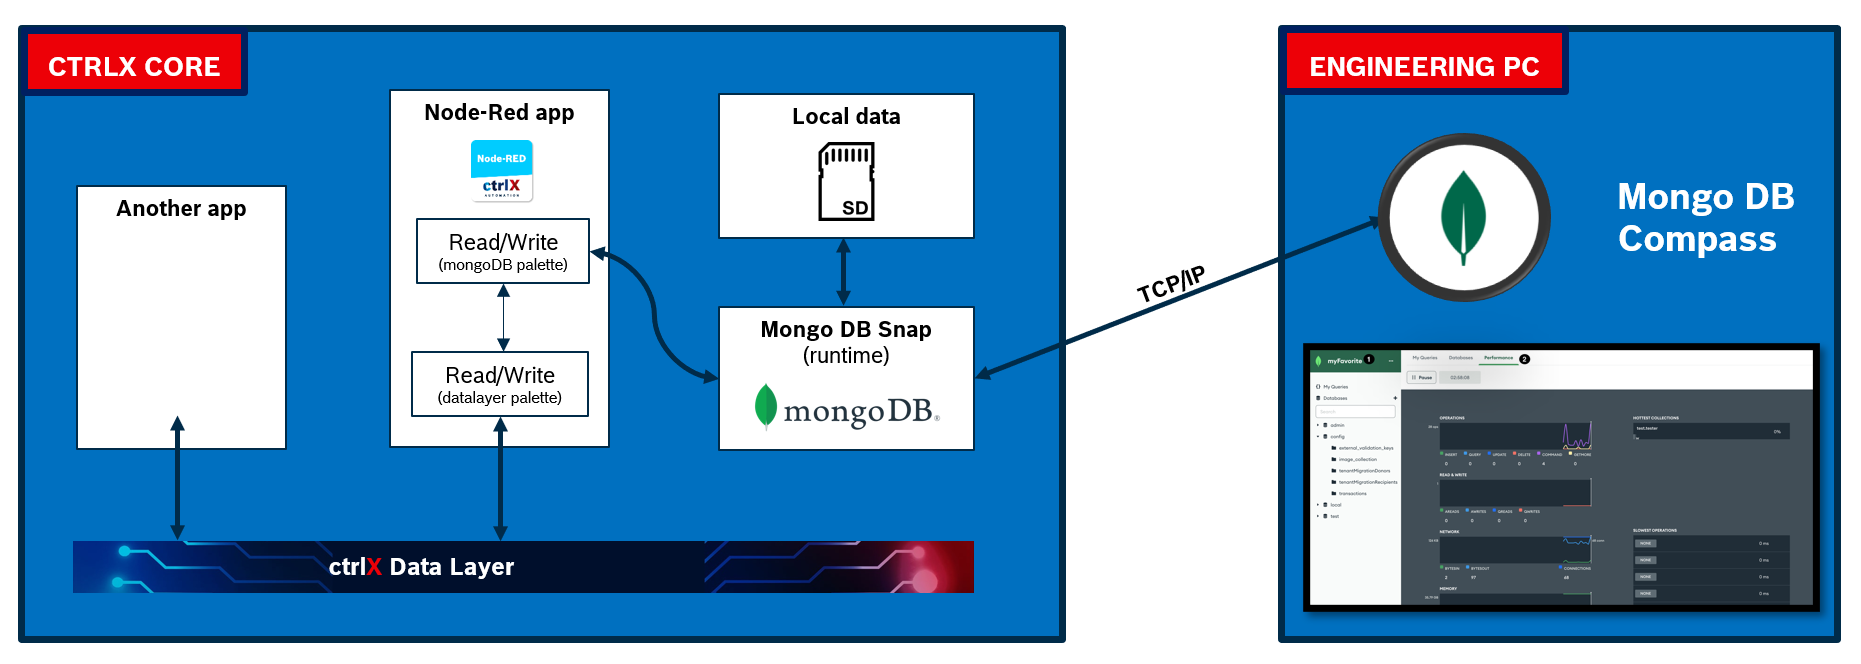
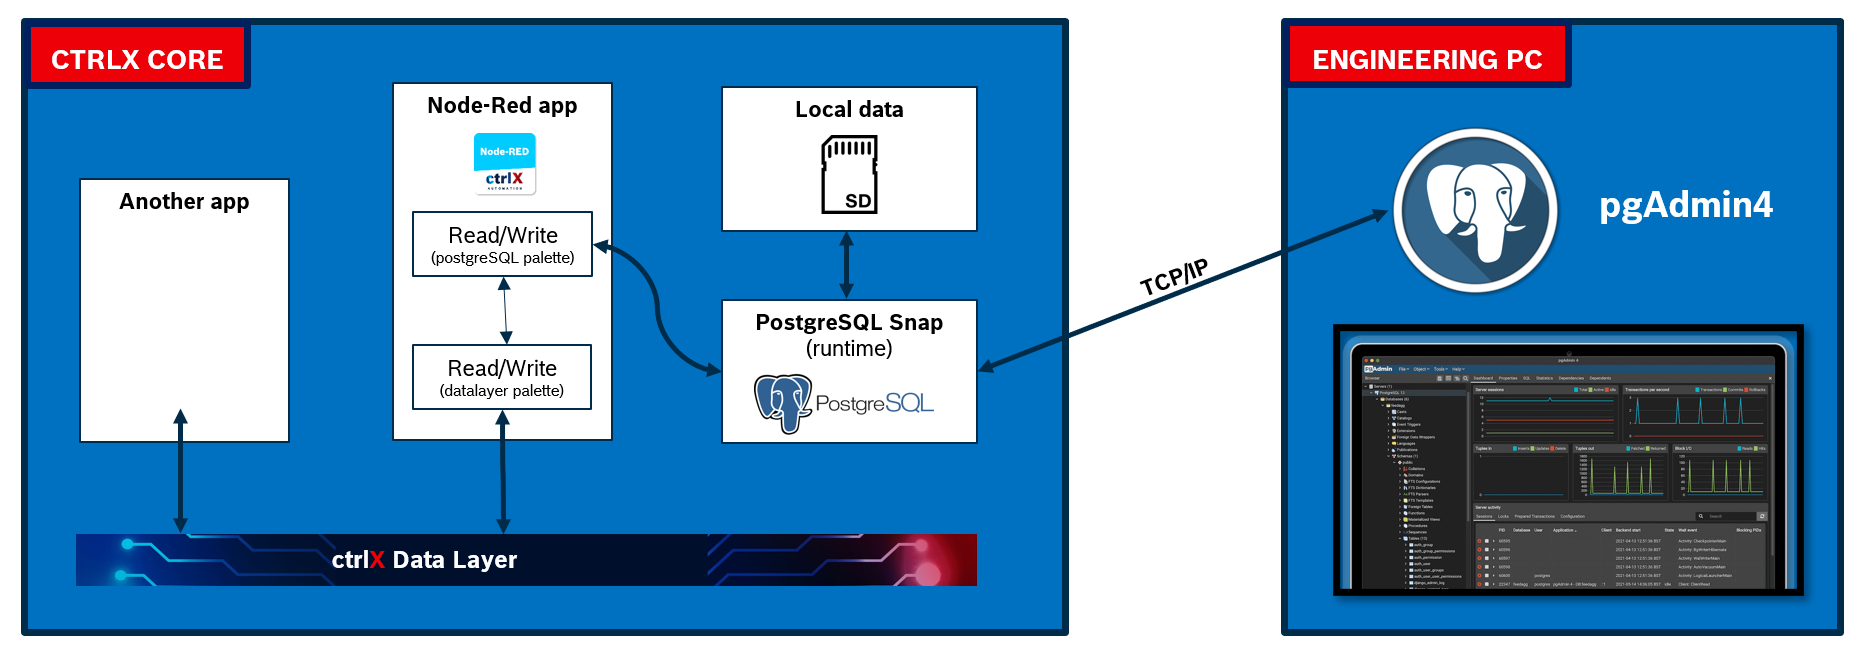
readme update

diff --git a/README.md b/README.md
@@ -1,14 +1,8 @@
   [![License: MIT](https://img.shields.io/badge/License-MIT-yellow.svg)](https://opensource.org/licenses/MIT)
 
+# ctrlx-postgresql
 
-sudo -u raul /usr/lib/postgresql/14/bin/postgres --config-file=/home/raul/ctrlx_postgresql/shscripts/data/configuration/postgresql.conf -D /home/raul/data_postgresql
-
-
-# ctrlx-mongodb
-
-This respository contains the source code and build instructions to generate the ctrlx-mongodb snap yourself. Shortly speaking, the ctrlx-mongodb packs mongo DB 7.0 for ubuntu 2022 with amd64 architecture. It targets ctrlX CORE virtual, ctrlX CORE X5 and ctrlX CORE x7 running ctrlX OS 2.xx (base apps running an ubuntu core 22). This application is (and will be) only supported for amd64 architecture. See the end of this README for further explainations about this issue.
-
-This repository is based in the [official mongodb36-configurable-snap repository](https://github.com/mauringo/mongodb36-configurable-snap) and it has been initially modified following the indications from Mauro Riboni in [SDK - Empower your app with Data Persistence](https://developer.community.boschrexroth.com/t5/Store-and-How-to/SDK-Empower-your-app-with-Data-Persistence/ba-p/69121). It has been then further adapted by Raul Cruz-Oliver to target ubuntu 22, including all the neccesary dependencies. 
+This respository contains the source code and build instructions to generate the ctrlx-postgresql snap yourself. Shortly speaking, the ctrlx-postgresql packs PostgreSQL 14.0 for Ubuntu 22.04 LTS with amd64 architecture. It targets ctrlX CORE virtual, ctrlX CORE X5 and ctrlX CORE x7 running ctrlX OS 2.xx (base apps running an ubuntu core 22). This application is only supported for amd64 architecture. 
 
 ## Author details
 <mark>**DISCLAIMER: This is not an official Bosch Rexroth development. This is only a demo example, use at your own risk. There is no support.**</mark> 
@@ -19,11 +13,11 @@ Date: November 2023 \
 License: MIT
 
 ## System overview
-The following diagram shows how mongo DB will integrated in ctrlX OS. The mongo DB runtime is packed in a snap and installed in the CORE, the user can configure where the data will be stored, for example in a external media like the an SD Card. Moreover, via a TCP/IP communication the mongo DB daemon in the ctrlX OS can connect to mongo DB Compass (GUI Deskop client application) in a engineering PC to easily visualize and export the data base.
+The following diagram shows how PostgreSQL will be integrated in ctrlX OS. The PostgreSQL runtime is packed in a snap and installed in the CORE, the user can configure where the data will be stored, for example in a external media like the an SD Card. Moreover, via a TCP/IP communication the PostgreSQL running in the ctrlX OS can accept connections from PgAdmin4 (GUI Deskop client application) in a engineering PC to easily visualize and export the data base.
 
 ![Alt Text](images/overview.png)
 
-Please visit [Mongo DB in ctrlX CORE OS](https://developer.community.boschrexroth.com/t5/forums/editpage/board-id/dcdev_community-dev-blog/message-id/969), where the functionalities of this app are explained in detail. Likewise, the already created snap can be downloaded there. 
+Please visit [PostgreSQL in ctrlX CORE OS](https://developer.community.boschrexroth.com/t5/forums/editpage/board-id/dcdev_community-dev-blog/message-id/969), where the functionalities of this app are explained in detail. 
 
 
 ## Easy start-up
@@ -36,73 +30,47 @@ Open a terminal, it will be started in your home directory. This is the best pla
 ```bash
 sudo apt install git # if you do not have git install in your system
 
-git clone https://github.com/rcruzoliver/ctrlx_mongodb
+git clone https://github.com/rcruzoliver/ctrlx_postgresql
 ```
 
 ### 1. Prepare your system
-You will pack mongo DB in a snap using a strategy in which some local installed packages are staged during snapcraft process, so, you need to install Mongo DB in your system. You can either follow the [official guide](https://www.mongodb.com/docs/manual/tutorial/install-mongodb-on-ubuntu/#std-label-install-mdb-community-ubuntu) to install Mongo DB Community Edition on Ubuntu, or simply follow the summarized tutorial I include next.
+You will pack PostgreSQL in a snap using a strategy in which some local installed packages are staged during snapcraft process, so, you need to install PostgreSQL in your system. You can either follow the [official guide](https://www.postgresql.org/download/linux/ubuntu/) to install PostgreSQL on Ubuntu, or simply follow the summarized tutorial I include next.
 
-- Install gnupg and curl
+- Create the file repository configuration:
 ```bash
-sudo apt-get install gnupg curl
+sudo sh -c 'echo "deb https://apt.postgresql.org/pub/repos/apt $(lsb_release -cs)-pgdg main" > /etc/apt/sources.list.d/pgdg.list'
 ```
-- Include the MongoDB public GPG key (grant access for download)
+- Import the repository signing key:
 ```bash
-curl -fsSL https://pgp.mongodb.com/server-7.0.asc | \
-   sudo gpg -o /usr/share/keyrings/mongodb-server-7.0.gpg \
-   --dearmor
+wget --quiet -O - https://www.postgresql.org/media/keys/ACCC4CF8.asc | sudo apt-key add -
 ```
-- Create a source list file for Mongo DB to specify the repositories from which the packages will be downloded
-```bash
-echo "deb [ arch=amd64,arm64 signed-by=/usr/share/keyrings/mongodb-server-7.0.gpg ] https://repo.mongodb.org/apt/ubuntu jammy/mongodb-org/7.0 multiverse" | sudo tee /etc/apt/sources.list.d/mongodb-org-7.0.list
-```
-- Update the package database (link the source for mongoDB you included before)
+- Update the package lists:
 ```bash
 sudo apt-get update
 ```
-- Install latest version of MongoDB. You could also choose an old version. By the time this was written, the latest was 7.0 (see bash output following), please consider forcing this version if the application is not working with a newer version of Mongo DB
+-  Install the desired version of PostgreSQL. (This example was developped for version 14.10)
 ```bash
-sudo apt-get install -y mongodb-org
+sudo apt-get -y install postgresql-14
 ```
-Verify you get this output in your console:
+- After the installation, open a new console and test if the right version was installed:
 ```bash
-Get:1 https://repo.mongodb.org/apt/ubuntu jammy/mongodb-org/7.0/multiverse amd64 mongodb-database-tools amd64 100.9.4 [51.9 MB] 
-Get:2 https://repo.mongodb.org/apt/ubuntu jammy/mongodb-org/7.0/multiverse amd64 mongodb-mongosh amd64 2.1.1 [47.9 MB] 
-Get:3 https://repo.mongodb.org/apt/ubuntu jammy/mongodb-org/7.0/multiverse amd64 mongodb-org-shell amd64 7.0.4 [2,986 B] 
-Get:4 https://repo.mongodb.org/apt/ubuntu jammy/mongodb-org/7.0/multiverse amd64 mongodb-org-server amd64 7.0.4 [36.5 MB] 
-Get:5 https://repo.mongodb.org/apt/ubuntu jammy/mongodb-org/7.0/multiverse amd64 mongodb-org-mongos amd64 7.0.4 [25.4 MB] 
-Get:6 https://repo.mongodb.org/apt/ubuntu jammy/mongodb-org/7.0/multiverse amd64 mongodb-org-database-tools-extra amd64 7.0.4 [7,756 B] 
-Get:7 https://repo.mongodb.org/apt/ubuntu jammy/mongodb-org/7.0/multiverse amd64 mongodb-org-database amd64 7.0.4 [3,426 B] 
-Get:8 https://repo.mongodb.org/apt/ubuntu jammy/mongodb-org/7.0/multiverse amd64 mongodb-org-tools amd64 7.0.4 [2,768 B] 
-Get:9 https://repo.mongodb.org/apt/ubuntu jammy/mongodb-org/7.0/multiverse amd64 mongodb-org amd64 7.0.4 [2,802 B] 
+/usr/lib/postgresql/14/bin/postgres -V
+```
+You should get
+```bash
+postgres (PostgreSQL) 14.10 (Ubuntu 14.10-0ubuntu0.22.04.1)
 ```
 
-If everything was succesful, mongo DB should be already installed. You can check if it works with:
-
-- Start the Mongo DB daemon (mongod) with
-```bash
-sudo systemctl daemon-reload
-sudo systemctl start mongod
-```
-- Verify it is awake
-```bash
-sudo systemctl status mongod
-```
-- You can stop the daemon with
-```bash
-sudo systemctl stop mongod
-```
 
 ### 2. Create the snap
 The process has been automated for you in createSnap.sh. Just enter the following commands:
 ```bash
-cd ctrlx-mongodb
+cd ctrlx_postgresql
 ./createSnap
 ```
-The details about the snap/snapcraft.yalm file and other files that are dumped in the snap can be better understood by reading [SDK - Empower your app with Data Persistence](https://developer.community.boschrexroth.com/t5/Store-and-How-to/SDK-Empower-your-app-with-Data-Persistence/ba-p/69121).
 
 ### 3. Install the snap in ctrlX CORE
-After running the process to create the snap, if it was sucessful, you will get a file called "ctrlx-mongodb_2.2.0_amd64.snap".
+After running the process to create the snap, if it was sucessful, you will get a file called "ctrlx-postgresql_2.2.0_amd64.snap".
 
 This .snap file can be directly intalled in CtrlX Core from the Apps menu. Just as a reminder, since this new app you just built has not been signed, you need to allow the installation from "unknown sources" in your device.
 
@@ -111,41 +79,3 @@ This .snap file can be directly intalled in CtrlX Core from the Apps menu. Just 
 ![Alt text](/images/popup.png)
 
 
-## Why is this app not available for X3?
-
-ctrlX CORE X3 has a 64 Bit Quad-Core ARM CPU, in particular with arm64:v8.0 processing architecture. Just as a comment, it is the same processing architecture in Raspberry Pi model 4, for this reason is the rpi a good platform to test the developments targeted to ctrlX CORE x3. The new ctrlX OS 2.xx is based on a ubuntu core 22 (similar to Ubuntu Desktop 22.04), which is the platform we are developping for. It does not make any sense to develop for ctrlX OS 1.20 (ubuntu core 20), because most of the advanced features are intensily developped for the new OS.
-
-If we look at the [Production notes for Mongo DB 7.0](https://www.mongodb.com/docs/manual/administration/production-notes/) we find some interesting comments:
-
-- x86_64 (amd64): from Mongo DB version 5.0+ the AVX instruction set is required. Luckly it is availble in the amd64 ctrlX Ecosystem devices. 
-- ARM64: from Mongo DB version 5.0+ arm64:v8.2A+ is required. Sadly, this is not met in X3.
-
-So, one can think that let's go with the latest Mongo DB version that runs in arm64:v8.0. It is Mongo DB 4.4. However, we find the following: 
-
-![Alt text](/images/platformsupport.png)
-
-It will not work in Ubuntu 22, ergo in ctrlX OS 2.xx. Summary, with this generation of X3, mongo DB can not be ported. 
-
-****************
-
-Although I just said Mongo DB will never work in X3, I was lying ;). There is actually an strategy that we can follow: running it in Docker !!!
-
-First idea could be emulating arm64/ubuntu20 in the container and then running there version 4.4. Although it should work, I have not tested it.
-
-We can also think about emulating amd64 architecture in the container. However, the emulated architecture amd64 has no AVX instruction set, therefore we need to try with 4.4 here as well. It works. Now the question, is it worth it to use this? 
-
-If you still want to use it, what I have done is the following:
-```bash
-# start the container
-sudo docker run --platform linux/amd64 -p 27017:27017 --name <CONTAINER_NAME> mongo:4.4
-# connect the CLI, command in 4.4 is "mongo", not "mongos" (if it connects, it means the daemon is alive)
-sudo docker exec -it <CONTAINER_NAME> mongo
-```
-
-Then you need to pack the this docker image in a snap to install it in the ctrlX OS. Then, cross-your fings and hope the [ctrlX Container Engine](https://developer.community.boschrexroth.com/t5/Store-and-How-to/ctrlX-AUTOMATION-Container-Engine/ba-p/57324) suports this image, you can also find a template to pack your DockerImage in a snap. I am not sue how the ctrlX Container Engine will behave with qemu. If you manage to make it work, please email me in raul.cruz.oliver@gmail.com
-
-And on top of all of that, it is still Mongo DB 4.4. with way less functionalities, and not granted performance with Mongo DB Compass.
-
-Finally, find here a summary of all the test I have done. Do not waste your time doing the same I already did. I have been working in a Raspi Model 4 with Ubuntu 22.04 Desktop. It should behave identially as an X3 with 2.xx.
-
-![Alt text](/images/comparison.png)
